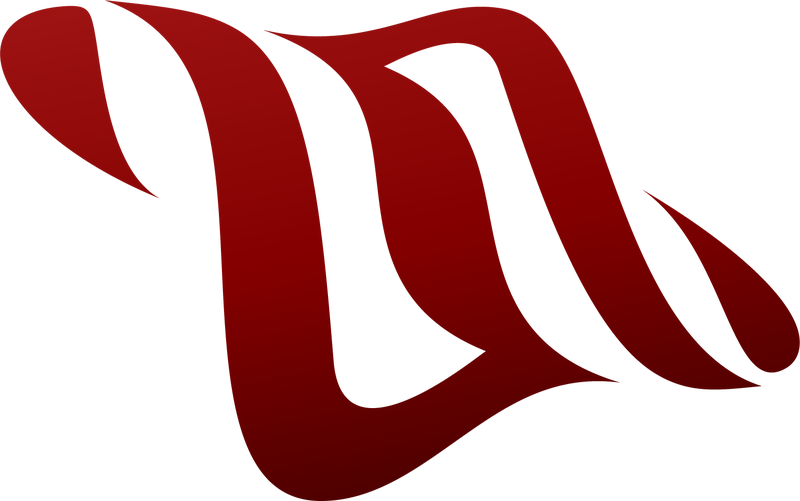
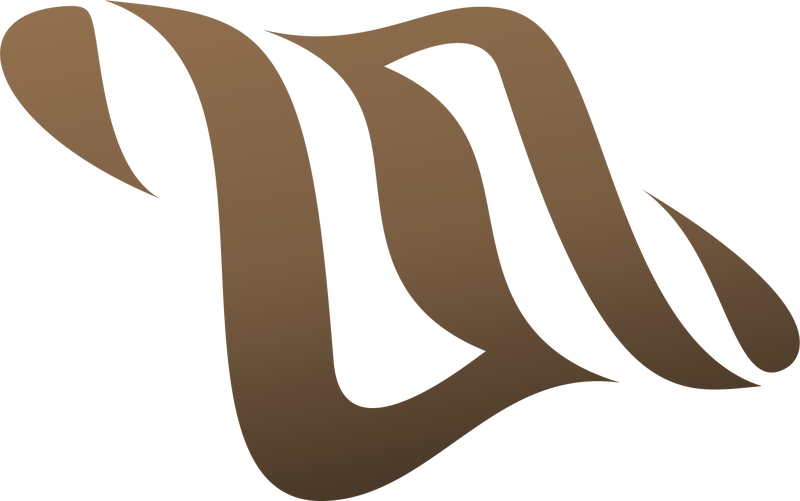
Site-wide dark brown palette (matches team page)
Claude-Session: https://claude.ai/code/session_01UFfoseY33aA9FJC45ZoXyk

diff --git a/global.css b/global.css
@@ -10,7 +10,7 @@
 @property --a{syntax:'<angle>';inherits:false;initial-value:0deg}
 
 :root{
-  --red:#830000;--red-d:#4a0000;--red-l:#c93a3a;--rgb:131,0,0;--rgb2:205,72,72;
+  --red:#4a3220;--red-d:#1f150c;--red-l:#b08a63;--rgb:122,84,52;--rgb2:176,138,99;
   --c1:#181818;--c2:#333333;--c3:#444444;--c4:#111111;--c0:#000000;
   --text:#ffffff;--mute:rgba(255,255,255,.68);--line:rgba(255,255,255,.14);
   --display:'Poppins',system-ui,-apple-system,'Segoe UI',sans-serif;
@@ -20,14 +20,14 @@
   transition:--bg1 1.2s ease,--bg2 1.2s ease,--glow 1.2s ease,--gx 1.2s ease,--gy 1.2s ease;
 }
 /* one backdrop per section — always black-based, with a red or white glow */
-html[data-sec="intro"]   {--bg1:#000;   --bg2:#0c0202;--glow:rgba(131,0,0,0.26);--gx:50%;--gy:55%}
-html[data-sec="services"]{--bg1:#0f0000;--bg2:#000;   --glow:rgba(131,0,0,0.48);--gx:12%;--gy:38%}
+html[data-sec="intro"]   {--bg1:#000;   --bg2:#0f0905;--glow:rgba(131,0,0,0.26);--gx:50%;--gy:55%}
+html[data-sec="services"]{--bg1:#140d07;--bg2:#000;   --glow:rgba(131,0,0,0.48);--gx:12%;--gy:38%}
 html[data-sec="work"]    {--bg1:#000;   --bg2:#0a0a0a;--glow:rgba(255,255,255,.08);--gx:50%;--gy:0%}
-html[data-sec="results"] {--bg1:#3a0000;--bg2:#000;   --glow:rgba(131,0,0,0.64);--gx:50%;--gy:100%}
+html[data-sec="results"] {--bg1:#2a1a0e;--bg2:#000;   --glow:rgba(131,0,0,0.64);--gx:50%;--gy:100%}
 html[data-sec="process"] {--bg1:#000;   --bg2:#060606;--glow:rgba(255,255,255,.07);--gx:88%;--gy:18%}
-html[data-sec="pricing"] {--bg1:#220000;--bg2:#000;   --glow:rgba(131,0,0,0.51);--gx:50%;--gy:15%}
+html[data-sec="pricing"] {--bg1:#21150b;--bg2:#000;   --glow:rgba(131,0,0,0.51);--gx:50%;--gy:15%}
 html[data-sec="faq"]     {--bg1:#000;   --bg2:#090909;--glow:rgba(131,0,0,0.19);--gx:8%; --gy:85%}
-html[data-sec="contact"] {--bg1:#2e0000;--bg2:#000;   --glow:rgba(131,0,0,0.61);--gx:50%;--gy:92%}
+html[data-sec="contact"] {--bg1:#281a0f;--bg2:#000;   --glow:rgba(131,0,0,0.61);--gx:50%;--gy:92%}
 html[data-sec="footer"]  {--bg1:#000;   --bg2:#000;   --glow:rgba(var(--rgb),0.16);--gx:50%;--gy:100%}
 
 *{box-sizing:border-box;margin:0}
@@ -93,7 +93,7 @@ header.top{position:relative;overflow:hidden;min-height:94vh;display:flex;align-
 .hero{position:relative;z-index:1;padding-top:124px;padding-bottom:80px;pointer-events:none}
 .hero a,.hero .btn,.hero-strip{pointer-events:auto}
 .hero h1{font-size:clamp(38px,6.2vw,84px);line-height:1.06;letter-spacing:-.035em;margin:22px 0;max-width:13ch;color:#fff;text-shadow:0 4px 40px rgba(0,0,0,.6)}
-.hero h1 em{font-style:normal;background:linear-gradient(100deg,#e05555,#b01a1a 50%,var(--red));-webkit-background-clip:text;background-clip:text;color:transparent;-webkit-box-decoration-break:clone;box-decoration-break:clone;text-shadow:none}
+.hero h1 em{font-style:normal;background:linear-gradient(100deg,#c9a47c,#a07850 50%,#7a5434);-webkit-background-clip:text;background-clip:text;color:transparent;-webkit-box-decoration-break:clone;box-decoration-break:clone;text-shadow:none}
 .hero p{color:rgba(255,255,255,.74);max-width:52ch;font-size:17px;margin-bottom:30px}
 .cta-row{display:flex;gap:12px;flex-wrap:wrap}
 .hero-strip{display:flex;flex-wrap:wrap;margin-top:46px;max-width:660px;border-radius:22px;border:1px solid var(--line);background:rgba(255,255,255,.05);backdrop-filter:blur(14px);box-shadow:inset 0 1px 0 rgba(255,255,255,.1),0 24px 60px rgba(0,0,0,.5)}
@@ -143,7 +143,7 @@ header.top{position:relative;overflow:hidden;min-height:94vh;display:flex;align-
 .plan ul{list-style:none;padding:0;margin:18px 0 24px;display:grid;gap:10px;flex:1}
 .plan li{color:var(--mute);font-size:14.5px;padding-left:24px;position:relative}
 .plan li::before{content:"";position:absolute;left:0;top:8px;width:10px;height:6px;border-left:2px solid var(--red);border-bottom:2px solid var(--red);transform:rotate(-45deg)}
-.plan.hot{--text:#fff;--mute:rgba(255,255,255,.82);background:linear-gradient(145deg,rgba(var(--rgb),.9),rgba(74,0,0,.62));color:#fff;border-color:transparent;box-shadow:0 24px 60px rgba(var(--rgb),0.56),0 20px 44px rgba(0,0,0,.45)}
+.plan.hot{--text:#fff;--mute:rgba(255,255,255,.82);background:linear-gradient(145deg,rgba(var(--rgb),.9),rgba(31,21,12,.7));color:#fff;border-color:transparent;box-shadow:0 24px 60px rgba(var(--rgb),0.56),0 20px 44px rgba(0,0,0,.45)}
 .plan.hot h3,.plan.hot li,.plan.hot .pr small{color:rgba(255,255,255,.84)}
 .plan.hot li::before{border-color:#fff}
 .plan.hot .btn{background:#111;color:#fff;border-color:#111}
@@ -326,7 +326,7 @@ main.sub{padding:130px 0 50px;min-height:82vh;display:flex;align-items:center;ov
 /* ---------- services cards (dark glass, white text) ---------- */
 .svc-sec{position:relative;overflow:hidden}
 .svc-sec .wrap{position:relative;z-index:1}
-.svc-bg{position:absolute;left:50%;top:58%;width:min(1100px,130vw);aspect-ratio:1;transform:translate(-50%,-50%);border-radius:50%;opacity:.6;pointer-events:none;background:repeating-conic-gradient(#3a0000 0 3deg,#000 3deg 7deg);-webkit-mask-image:radial-gradient(closest-side,transparent 52%,#000 54%,#000 74%,transparent 78%);mask-image:radial-gradient(closest-side,transparent 52%,#000 54%,#000 74%,transparent 78%);animation:rot 90s linear infinite}
+.svc-bg{position:absolute;left:50%;top:58%;width:min(1100px,130vw);aspect-ratio:1;transform:translate(-50%,-50%);border-radius:50%;opacity:.6;pointer-events:none;background:repeating-conic-gradient(#2a1c10 0 3deg,#000 3deg 7deg);-webkit-mask-image:radial-gradient(closest-side,transparent 52%,#000 54%,#000 74%,transparent 78%);mask-image:radial-gradient(closest-side,transparent 52%,#000 54%,#000 74%,transparent 78%);animation:rot 90s linear infinite}
 .svg{display:grid;grid-template-columns:repeat(12,minmax(0,1fr));gap:14px}
 .sv{grid-column:span 3;position:relative;min-height:350px;padding:18px;display:flex;flex-direction:column;justify-content:space-between;border-radius:16px;border:1px solid var(--line);background:linear-gradient(180deg,rgba(80,82,87,.32),rgba(20,21,24,.84));backdrop-filter:blur(8px);overflow:hidden;transition:transform .3s,border-color .3s,box-shadow .3s}
 .sv:nth-child(n+5){grid-column:span 4}
@@ -462,11 +462,6 @@ main.sub{padding:130px 0 50px;min-height:82vh;display:flex;align-items:center;ov
 
 /* ---------- team page: adds #1F150C (warm dark brown) next to the red/black/white ---------- */
 .team{--brown:#1f150c;--brown-l:#4a3220;--brown-d:#150e08}
-.team .bgfx{background:
-  radial-gradient(48% 52% at 70% 46%,rgba(31,21,12,1),rgba(31,21,12,0) 78%),
-  radial-gradient(60% 55% at 6% 100%,#1f150c,rgba(31,21,12,0) 75%),
-  radial-gradient(70% 60% at var(--gx) var(--gy),var(--glow),transparent 72%),
-  linear-gradient(180deg,#120b06,#000 70%)}
 /* a brown plate behind the portrait */
 .team .stage::before{content:"";position:absolute;inset:-14%;border-radius:50%;pointer-events:none;
   background:radial-gradient(closest-side,#1f150c 64%,rgba(31,21,12,.55) 80%,rgba(31,21,12,0));box-shadow:0 0 90px rgba(31,21,12,.9)}
@@ -488,7 +483,6 @@ main.sub{padding:130px 0 50px;min-height:82vh;display:flex;align-items:center;ov
 /* ---------- team page: fully dark brown, no red ---------- */
 .team{--red:#4a3220;--red-d:#1f150c;--red-l:#b08a63;--rgb:122,84,52;--rgb2:176,138,99}
 html:has(body.team){background:#000}
-.team .bgfx{background:linear-gradient(180deg,#000,#050302)}
 .team .stage::before{background:radial-gradient(closest-side,#2a1c10 64%,rgba(42,28,16,.55) 80%,rgba(42,28,16,0));box-shadow:0 0 90px rgba(42,28,16,.9)}
 .team .pill,.team .nav.solid .pill{background:linear-gradient(135deg,rgba(21,14,8,.9),rgba(44,30,18,.74) 55%,rgba(21,14,8,.88))}
 .team .ddin{background:linear-gradient(160deg,rgba(21,14,8,.94),rgba(44,30,18,.86))}
@@ -510,7 +504,7 @@ main.sub.blog{display:block;min-height:0;padding:128px 0 60px}
 .fl button.on{background:var(--red);border-color:rgba(var(--rgb2),.7);font-weight:600;box-shadow:0 0 22px rgba(var(--rgb),.6)}
 .ngrid{display:grid;grid-template-columns:repeat(3,minmax(0,1fr));gap:16px}
 .nc{display:flex;flex-direction:column;overflow:hidden;border-radius:18px;text-decoration:none;color:inherit;animation:cbin .5s cubic-bezier(.2,.8,.2,1) backwards}
-.nc .th{position:relative;aspect-ratio:16/9;overflow:hidden;background:linear-gradient(135deg,#1c0505,#050505)}
+.nc .th{position:relative;aspect-ratio:16/9;overflow:hidden;background:linear-gradient(135deg,#1f150c,#050505)}
 .nc .th img{position:absolute;inset:0;width:100%;height:100%}
 .nc .ph{object-fit:contain;padding:26%;opacity:.3}
 .nc .pic{object-fit:cover;transition:transform .7s cubic-bezier(.2,.8,.2,1)}

diff --git a/blogs.html b/blogs.html
@@ -10,7 +10,7 @@
 <link href="https://fonts.googleapis.com/css2?family=Poppins:wght@400;500;600;700&display=swap" rel="stylesheet">
 <link rel="stylesheet" href="global.css">
 </head>
-<body>
+<body class="team">
 <div class="bgfx" aria-hidden="true"></div>
 <canvas id="bg" aria-hidden="true"></canvas>
 <nav class="nav"><div class="pill">

diff --git a/index.html b/index.html
@@ -10,7 +10,7 @@
 <link href="https://fonts.googleapis.com/css2?family=Poppins:wght@400;500;600;700&display=swap" rel="stylesheet">
 <link rel="stylesheet" href="global.css">
 </head>
-<body>
+<body class="team">
 <div class="bgfx" aria-hidden="true"></div>
 <canvas id="bg" aria-hidden="true"></canvas>
 
